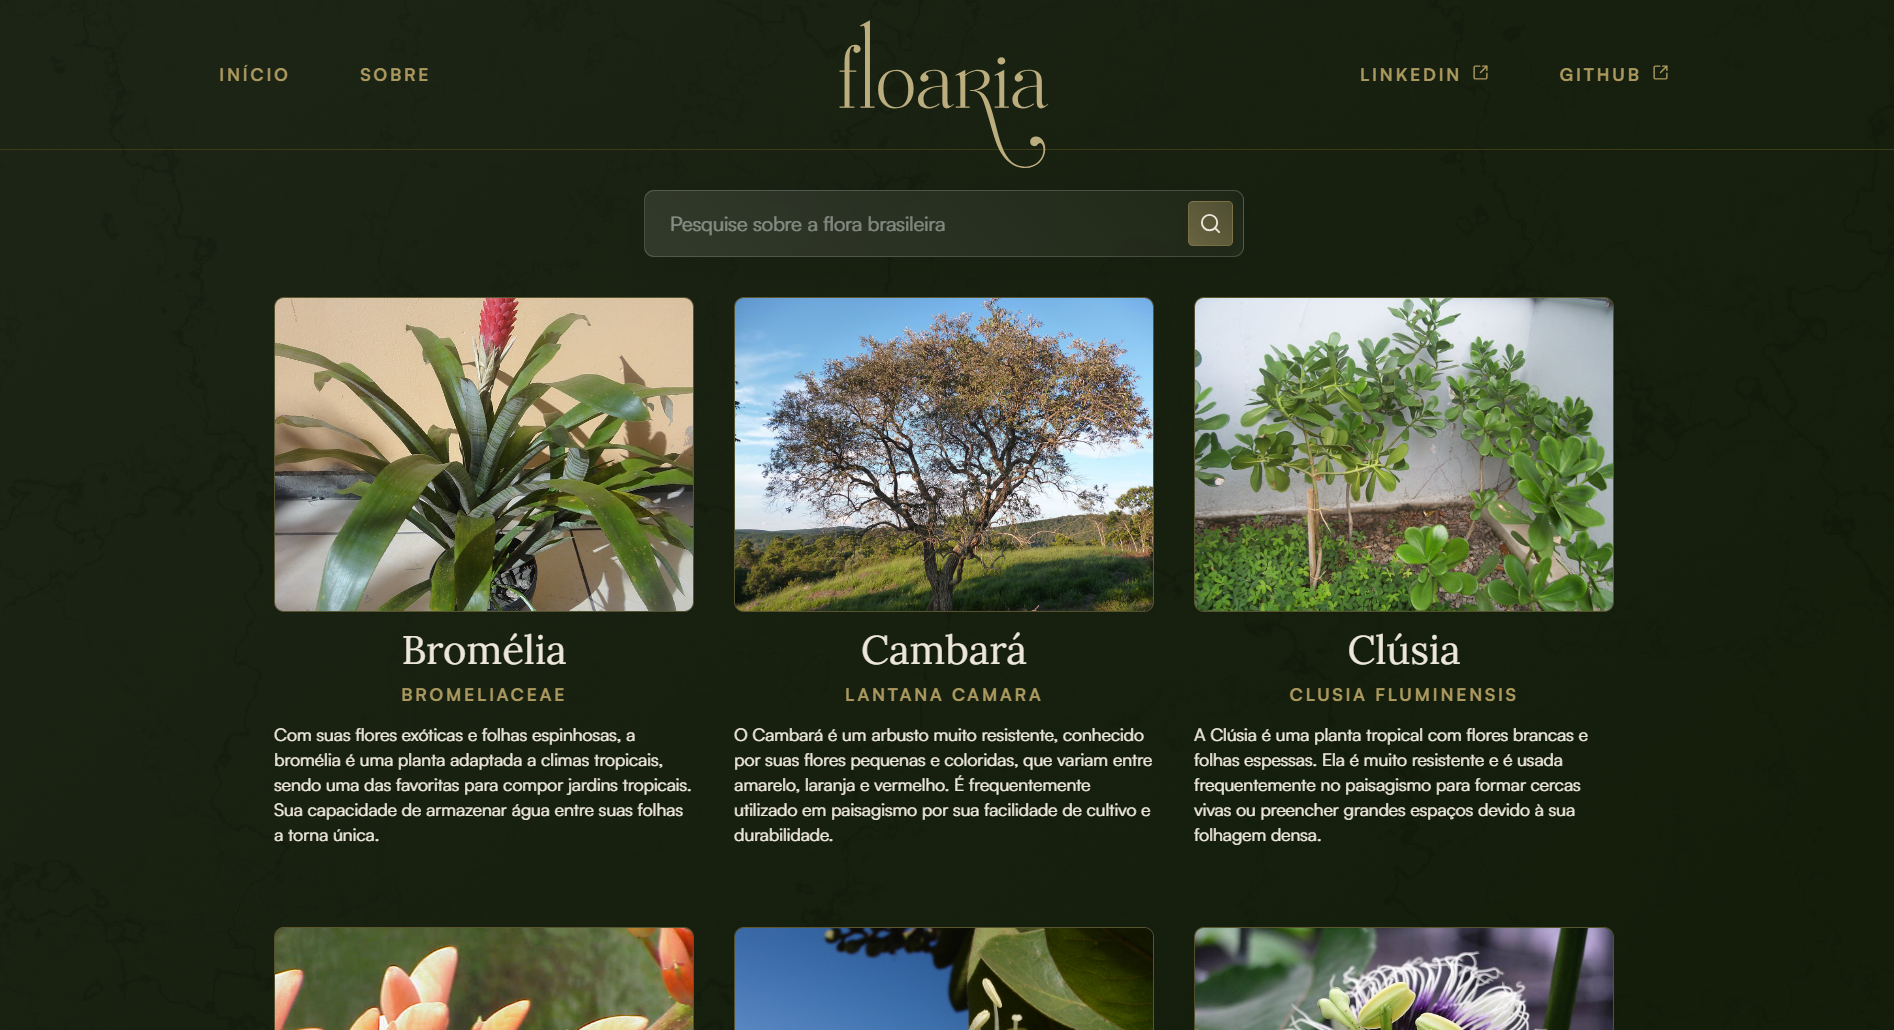
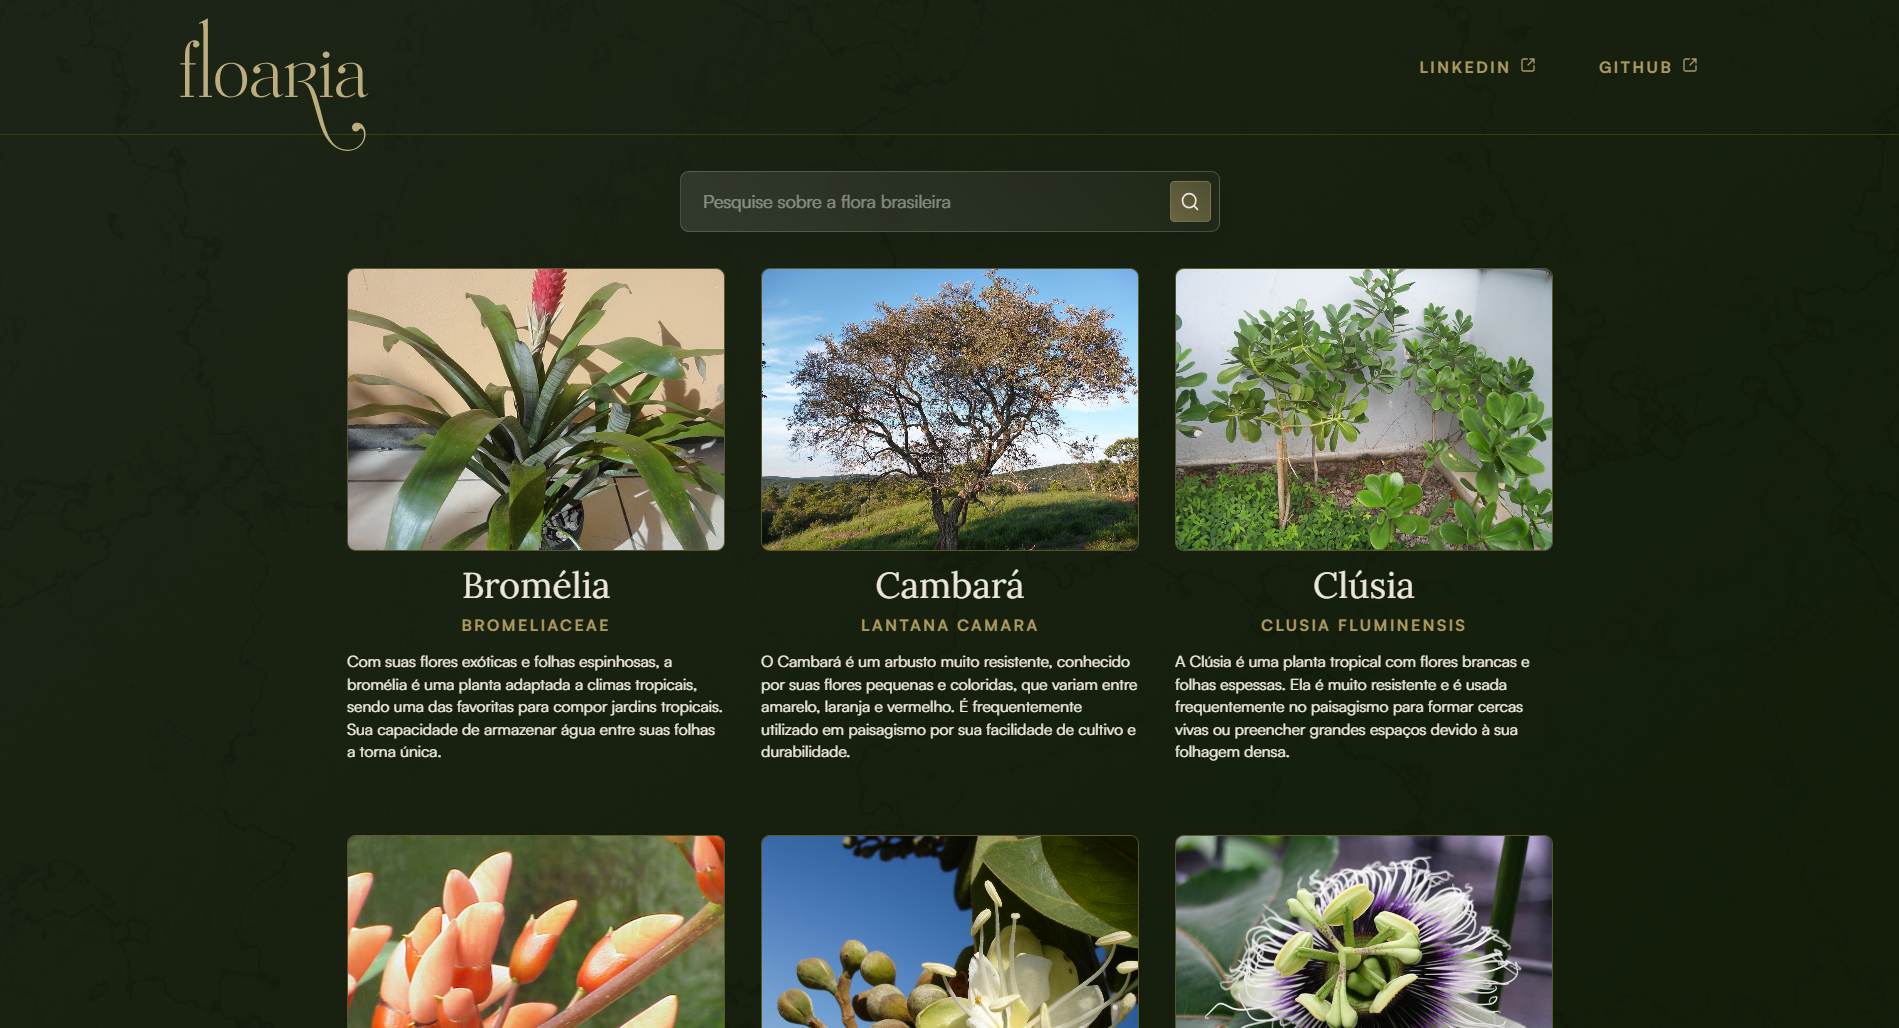
mobile responsive

diff --git a/style.css b/style.css
@@ -63,6 +63,11 @@ header {
   gap: 1rem;
 }
 
+.logo {
+  width: 168px;
+  height: auto;
+}
+
 .social {
   display: flex;
   justify-content: flex-end;
@@ -160,6 +165,7 @@ header {
 }
 
 .card-hidden {
+  cursor: pointer;
   display: flex;
   flex-direction: column;
   height: auto;
@@ -187,6 +193,7 @@ header {
 }
 
 .overlay {
+  z-index: 1;
   display: none;
   position: fixed;
   top: 0;
@@ -194,7 +201,6 @@ header {
   width: 100%;
   height: 100%;
   background: rgba(0, 0, 0, 0.5);
-  z-index: 1;
 }
 
 .image-container {
@@ -328,4 +334,49 @@ footer .link-button::before {
   background: var(--gradient-card);
   backdrop-filter: blur(var(--background-blur));
   box-shadow: var(--drop-shadow);
+}
+
+@media (max-width: 450px) {
+  header {
+    height: 4rem;
+    padding: 1rem 1rem;
+  }
+  
+  .navigation {
+    gap: 0rem;
+  }
+  
+  .logo {
+    width: 92px;
+  }
+  
+  .social {
+    gap: 0rem;
+  }
+  
+  .link-button {
+    padding: 14px 14px;
+  }
+
+  .search {
+    padding: 2rem 1rem;
+  }
+
+  .card-wrap {
+    padding: 0 1rem;
+    gap: 2rem 2rem;
+    margin-bottom: 2rem;
+  }
+
+  .card-preview {
+    width: 90%;
+  }
+
+  footer {
+    padding: .5rem 1rem;
+  }
+
+  .all-rights {
+    padding: 14px 14px;
+  }
 }

diff --git a/index.html b/index.html
@@ -11,12 +11,14 @@
 
 <body class="font-caption layer">
   <header>
+    <!--
     <nav class="navigation">
       <a class="font-caption-w link-button" href="#">Início</a>
       <a class="font-caption-w link-button" href="#">Sobre</a>
     </nav>
+    -->
 
-    <img src="./src/vectors/Logo.svg" alt="Logo do Floaria">
+    <img src="./src/vectors/Logo.svg" alt="Logo do Floaria" class="logo">
 
     <div class="social">
       <a class="font-caption-w link-button" href="https://www.linkedin.com/in/samuel-llopes/" target="_blank">LinkedIn</a>

diff --git a/app.js b/app.js
@@ -286,6 +286,7 @@ function renderFlower(flower) {
         </div>
       </div>
     </div>
+    
     <div class="overlay"></div>
   `;
 }

diff --git a/README.md b/README.md
@@ -27,9 +27,11 @@ Foi desenvolvido com o intuito de aprender sobre os fundamentos básicos do Java
 
 ## Planos de Atualizações
 
-- Adicionar responsividade
-- Adicionar sugestões de pesquisa
-- Criar novas telas
+- ✅ Resultados aparecem em ordem alfabética.
+- ✅ Transformar os resultados em cards clicáveis.
+- Adicionar responsividade.
+- Adicionar sugestões de pesquisa.
+- Criar novas telas.
 
 ## Contribuição
 
